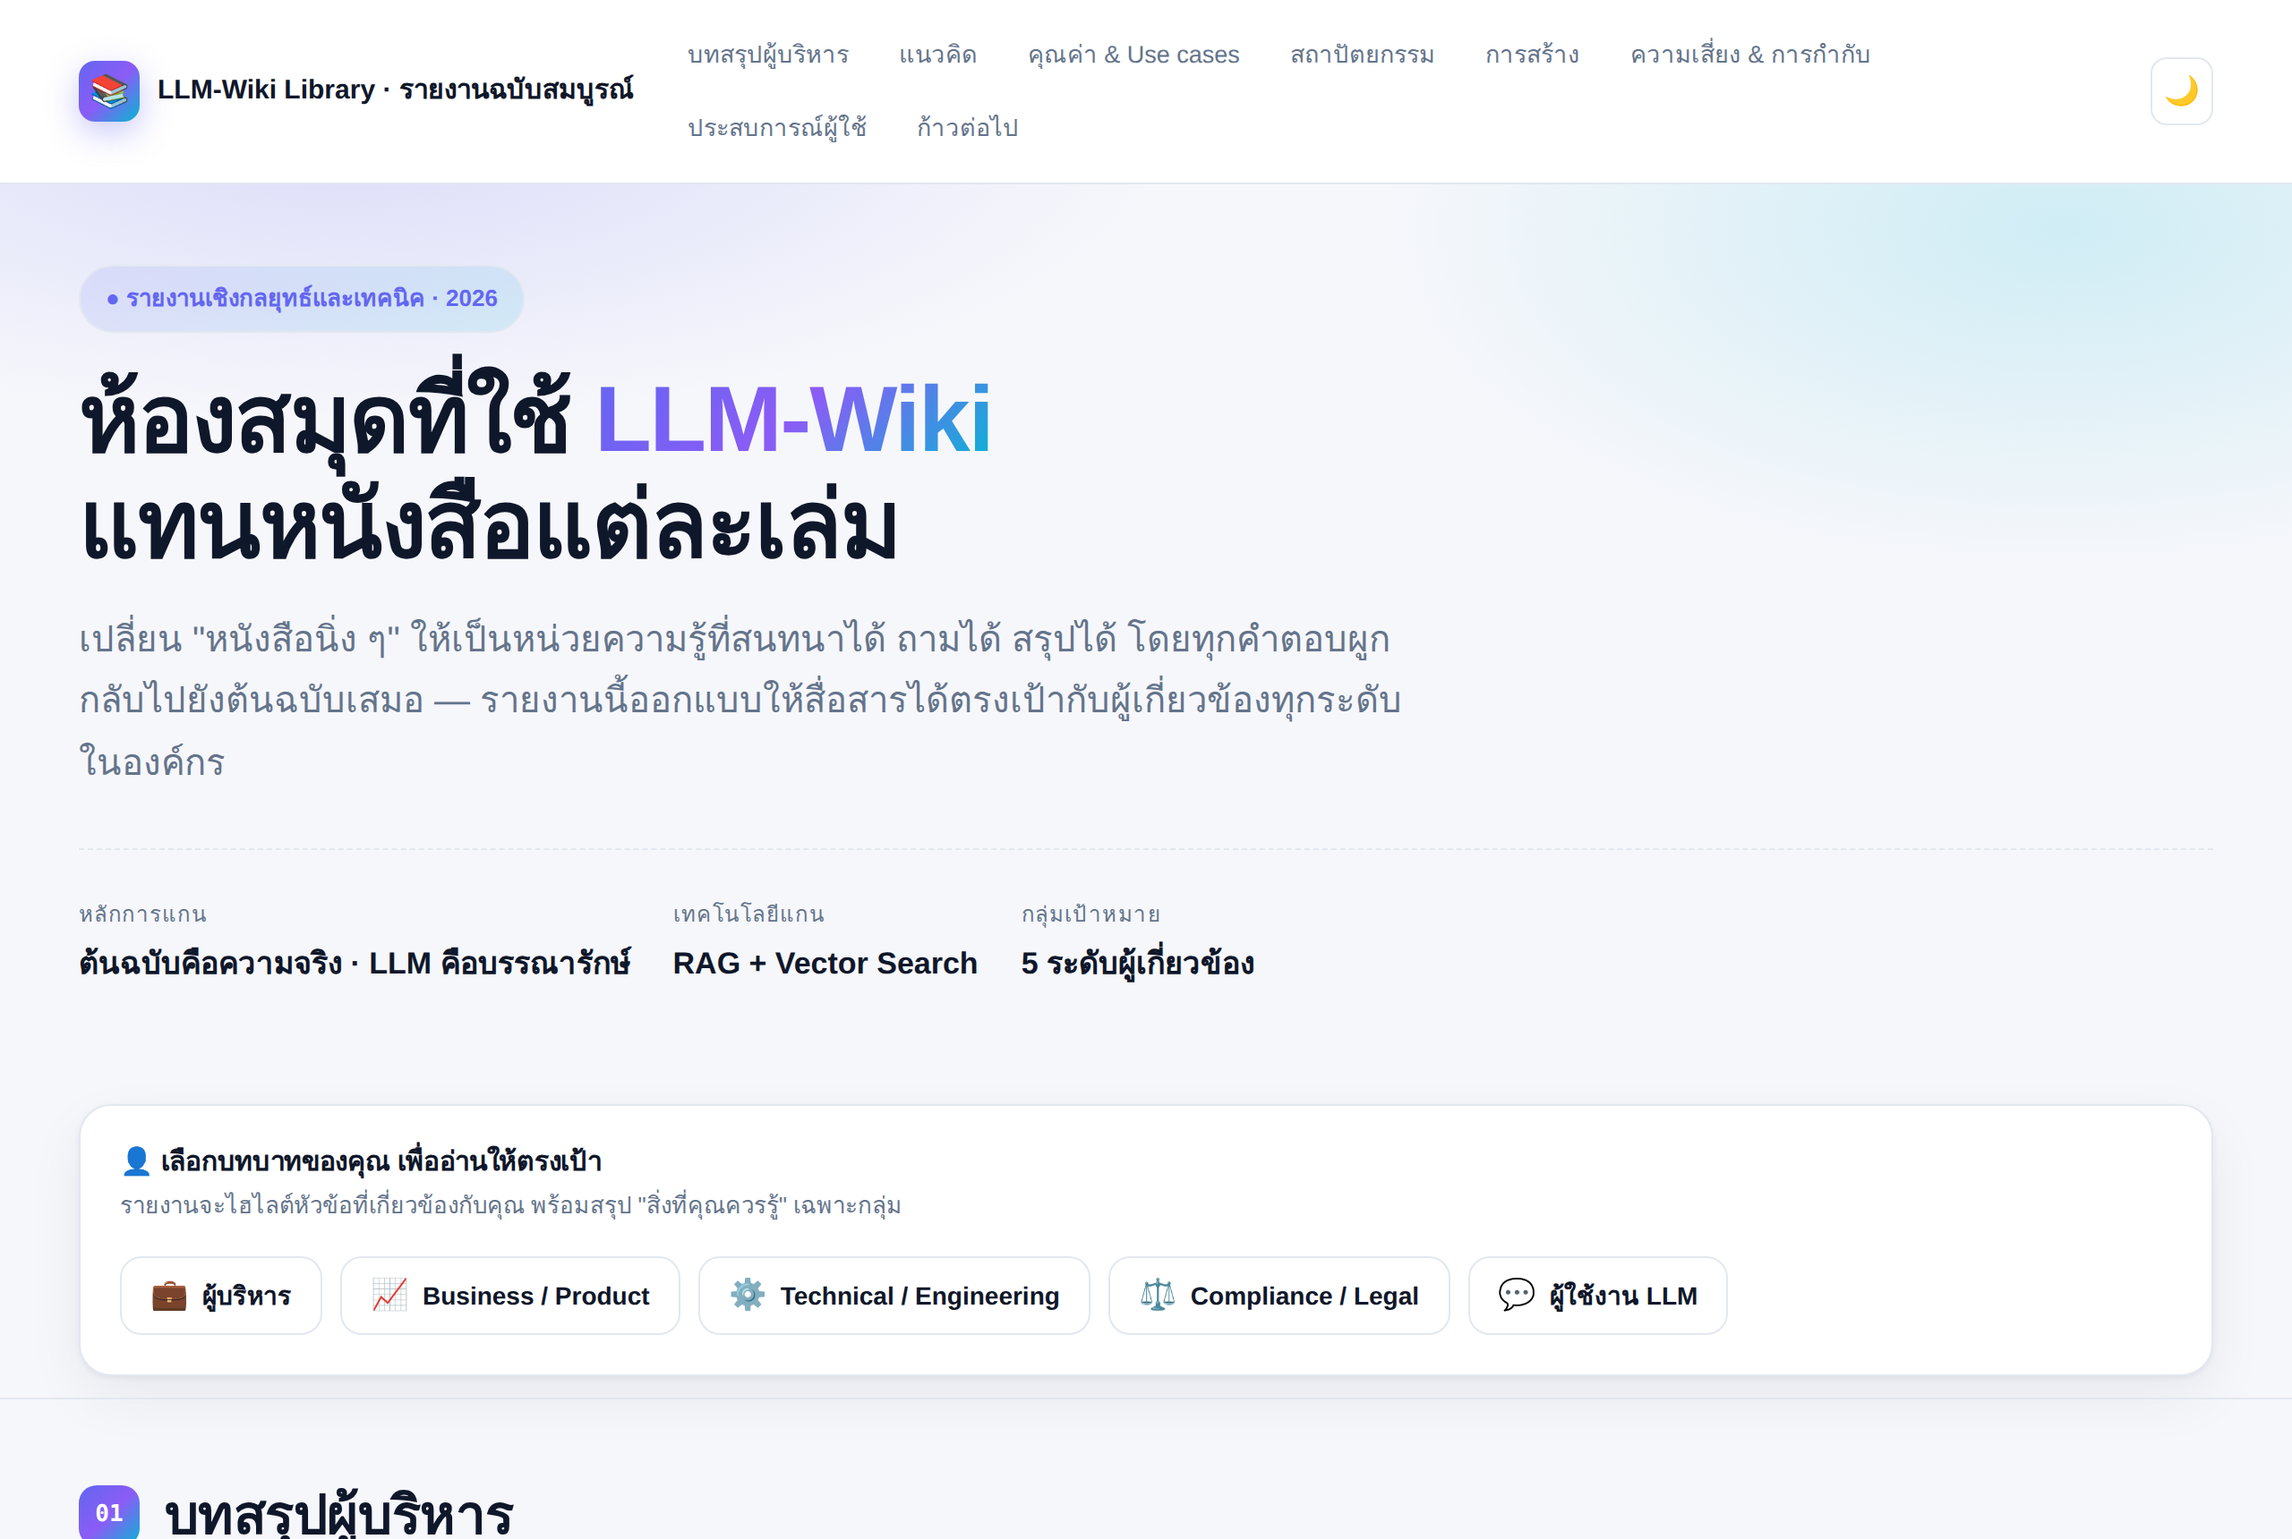
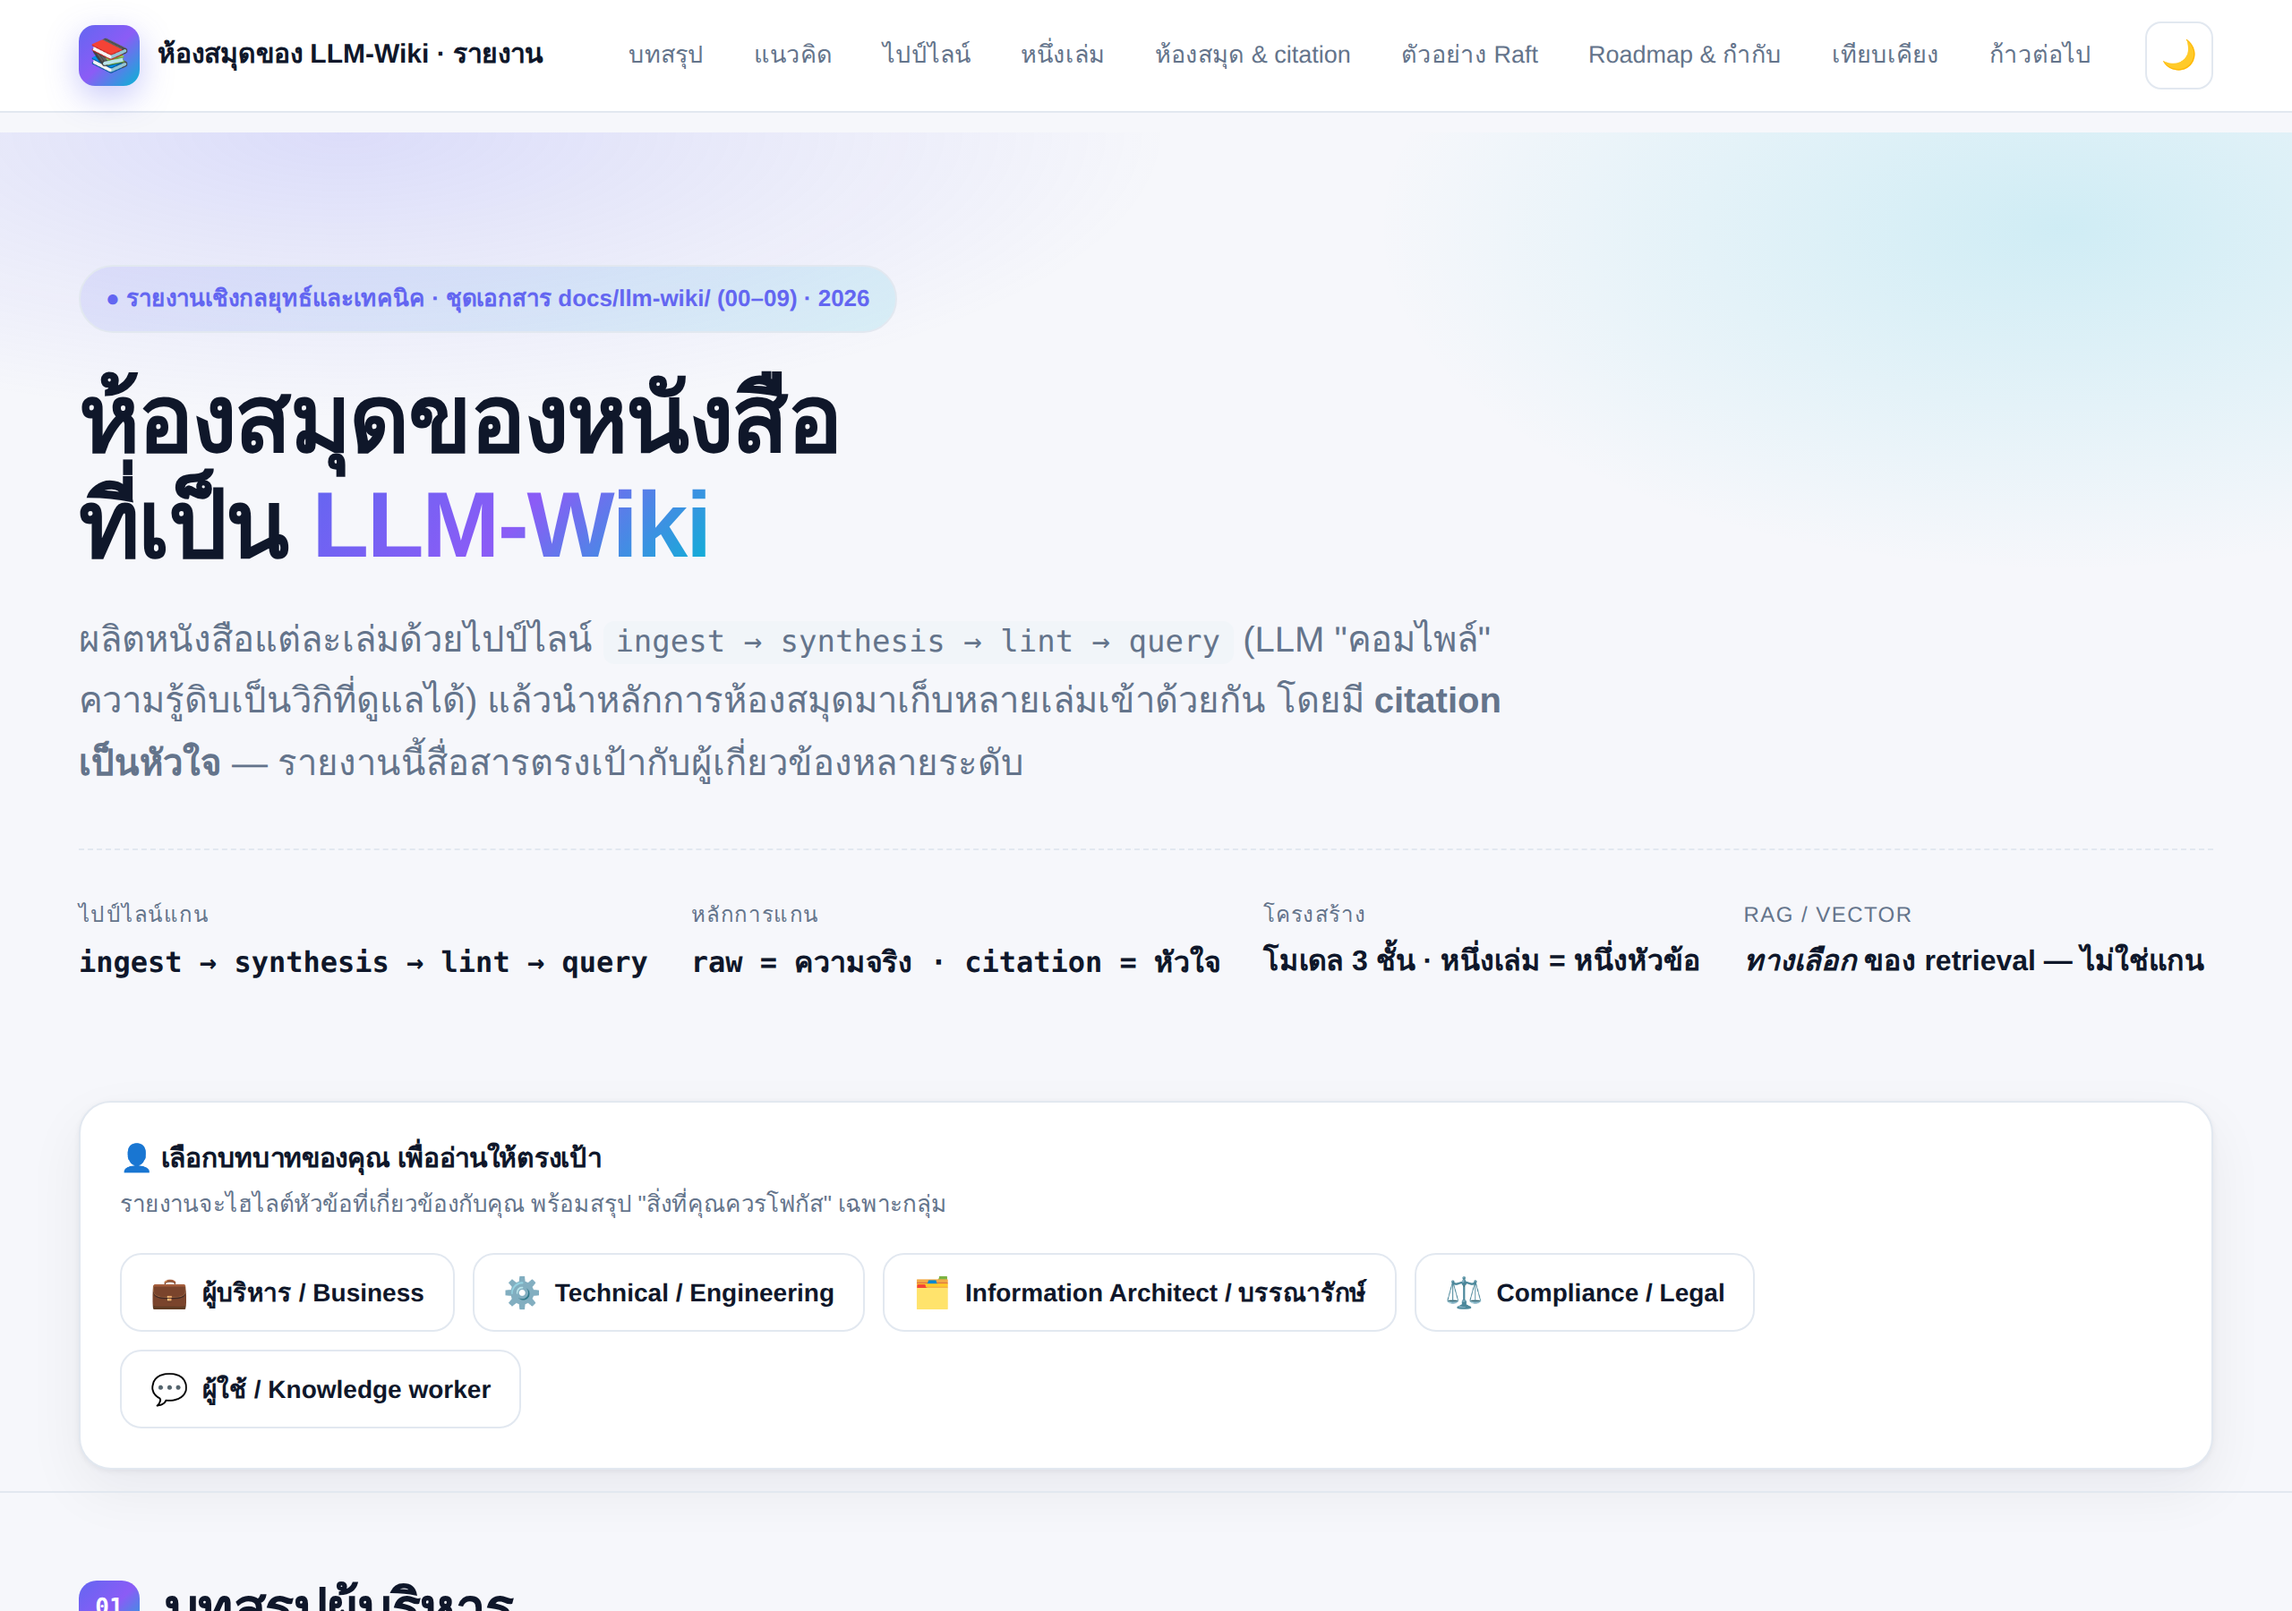
report: ถ่าย screenshot ใหม่ของรายงานปัจจุบัน + คืน gallery ใน README
5 ภาพจากรายงานใหม่ (hero, role selector, โมเดล 3 ชั้น, summary dark, mobile)
ถ่ายด้วย Playwright/chromium จาก report/index.html ปัจจุบัน

https://claude.ai/code/session_01J5dBpu3b16HrLiyDKH2eVt

diff --git a/README.md b/README.md
@@ -45,8 +45,20 @@
   > ใช้งานได้แม้ออฟไลน์ ส่วนฟอนต์โหลดจาก CDN เมื่อออนไลน์ ถ้าออฟไลน์จะใช้ฟอนต์ระบบ)
   > หรือ host เป็น GitHub Pages เพื่อแชร์ลิงก์ในองค์กร
 
-  > หมายเหตุ: ภาพหน้าจอใน `report/screenshots/` เป็นของรายงาน **เวอร์ชันก่อน**
-  > (กรอบ RAG-centric) ยังไม่ได้ถ่ายใหม่สำหรับรายงานปัจจุบัน — เปิดไฟล์ดูเนื้อหาล่าสุดได้โดยตรง
+### ตัวอย่างหน้าจอ (Screenshots)
+
+| Hero + Role Selector (Light) | Role Selector ทำงาน (เลือก Technical) |
+|:---:|:---:|
+| ![Hero light mode](report/screenshots/01-hero-light.png) | ![Role selector](report/screenshots/02-role-selector.png) |
+
+| โมเดล 3 ชั้น (pipeline ⊂ book ⊂ library) | บทสรุปผู้บริหาร (Dark mode) |
+|:---:|:---:|
+| ![3-layer model diagram](report/screenshots/03-architecture.png) | ![Summary dark mode](report/screenshots/04-summary-dark.png) |
+
+<p align="center">
+  <img src="report/screenshots/05-mobile.png" alt="Mobile responsive view" width="280"><br>
+  <em>มุมมองบนมือถือ (Responsive · Dark mode)</em>
+</p>
 
 ## ภาพรวมโดยย่อ
 
